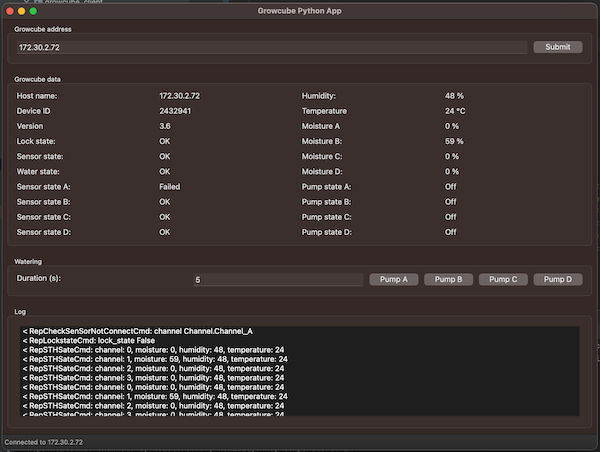
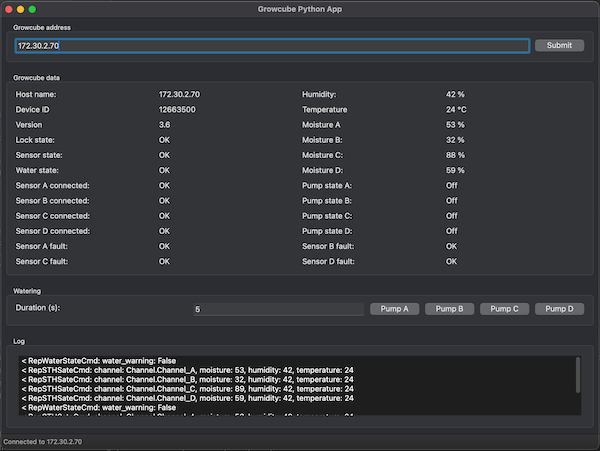
Fix bugs in WaterStateGrowcubeReport, CheckSensorLockGrowcubeReport and RepCurveEndFlagGrowcubeReport Add new sensors to app Version 1.0.15

Changed region(s): [[0.0, 0.0, 1.0, 1.0], [0.24, 0.1863, 0.33, 0.5898]]

diff --git a/src/growcube_app.py b/src/growcube_app.py
@@ -11,7 +11,7 @@ from growcube_client import GrowcubeClient, Channel, GrowcubeCommand, PumpOpenGr
     SyncWaterLevelCommand, SyncWaterTimeCommand, SetWorkModeCommand
 from growcube_client import (DeviceVersionGrowcubeReport, LockStateGrowcubeReport, CheckSensorGrowcubeReport,
                              MoistureHumidityStateGrowcubeReport, WaterStateGrowcubeReport,
-                             CheckSensorNotConnectedGrowcubeReport)
+                             CheckSensorNotConnectedGrowcubeReport, CheckSensorLockGrowcubeReport)
 
 DEBUG_LEVEL = logging.DEBUG
 
@@ -53,10 +53,14 @@ class SimpleGUI(wx.Frame):
         self.lock_state = False
         self.sensor_state = False
         self.water_state = False
-        self.sensor_fault_a = False
-        self.sensor_fault_b = False
-        self.sensor_fault_c = False
-        self.sensor_fault_d = False
+        self.sensor_connected_a = False
+        self.sensor_connected_b = False
+        self.sensor_connected_c = False
+        self.sensor_connected_d = False
+        self.check_sensor_a = False
+        self.check_sensor_b = False
+        self.check_sensor_c = False
+        self.check_sensor_d = False
         self.pump_state_a = False
         self.pump_state_b = False
         self.pump_state_c = False
@@ -172,55 +176,79 @@ class SimpleGUI(wx.Frame):
 
         # Data row 7
         row7_sizer = wx.BoxSizer(wx.HORIZONTAL)
-        label1 = wx.StaticText(panel, label=f"Sensor state A:")
-        self.sensor_fault_a_text = wx.StaticText(panel, label="OK")
+        label1 = wx.StaticText(panel, label=f"Sensor A connected:")
+        self.sensor_connected_a_text = wx.StaticText(panel, label="OK")
         label2 = wx.StaticText(panel, label="Pump state A:")
         self.pump_state_a_text = wx.StaticText(panel, label="Off")
         row7_sizer.Add(label1, 1, wx.EXPAND | wx.ALL, 5)
-        row7_sizer.Add(self.sensor_fault_a_text, 1, wx.EXPAND | wx.ALL, 5)
+        row7_sizer.Add(self.sensor_connected_a_text, 1, wx.EXPAND | wx.ALL, 5)
         row7_sizer.Add(label2, 1, wx.EXPAND | wx.ALL, 5)
         row7_sizer.Add(self.pump_state_a_text, 1, wx.EXPAND | wx.ALL, 5)
         group_box_sizer2.Add(row7_sizer, 0, wx.EXPAND | wx.ALL, 0)
 
         # Data row 8
         row8_sizer = wx.BoxSizer(wx.HORIZONTAL)
-        label1 = wx.StaticText(panel, label=f"Sensor state B:")
-        self.sensor_fault_b_text = wx.StaticText(panel, label="OK")
+        label1 = wx.StaticText(panel, label=f"Sensor B connected:")
+        self.sensor_connected_b_text = wx.StaticText(panel, label="OK")
         label2 = wx.StaticText(panel, label="Pump state B:")
         self.pump_state_b_text = wx.StaticText(panel, label="OK")  # You can set initial values here
         row8_sizer.Add(label1, 1, wx.EXPAND | wx.ALL, 5)
-        row8_sizer.Add(self.sensor_fault_b_text, 1, wx.EXPAND | wx.ALL, 5)
+        row8_sizer.Add(self.sensor_connected_b_text, 1, wx.EXPAND | wx.ALL, 5)
         row8_sizer.Add(label2, 1, wx.EXPAND | wx.ALL, 5)
         row8_sizer.Add(self.pump_state_b_text, 1, wx.EXPAND | wx.ALL, 5)
         group_box_sizer2.Add(row8_sizer, 0, wx.EXPAND | wx.ALL, 0)
 
         # Data row 9
         row9_sizer = wx.BoxSizer(wx.HORIZONTAL)
-        label1 = wx.StaticText(panel, label=f"Sensor state C:")
-        self.sensor_fault_c_text = wx.StaticText(panel, label="OK")
+        label1 = wx.StaticText(panel, label=f"Sensor C connected:")
+        self.sensor_connected_c_text = wx.StaticText(panel, label="OK")
         label2 = wx.StaticText(panel, label="Pump state C:")
         self.pump_state_c_text = wx.StaticText(panel, label="OK")  # You can set initial values here
         row9_sizer.Add(label1, 1, wx.EXPAND | wx.ALL, 5)
-        row9_sizer.Add(self.sensor_fault_c_text, 1, wx.EXPAND | wx.ALL, 5)
+        row9_sizer.Add(self.sensor_connected_c_text, 1, wx.EXPAND | wx.ALL, 5)
         row9_sizer.Add(label2, 1, wx.EXPAND | wx.ALL, 5)
         row9_sizer.Add(self.pump_state_c_text, 1, wx.EXPAND | wx.ALL, 5)
         group_box_sizer2.Add(row9_sizer, 0, wx.EXPAND | wx.ALL, 0)
 
         # Data row 10
         row10_sizer = wx.BoxSizer(wx.HORIZONTAL)
-        label1 = wx.StaticText(panel, label=f"Sensor state D:")
-        self.sensor_fault_d_text = wx.StaticText(panel, label="OK")
+        label1 = wx.StaticText(panel, label=f"Sensor D connected:")
+        self.sensor_connected_d_text = wx.StaticText(panel, label="OK")
         label2 = wx.StaticText(panel, label="Pump state D:")
         self.pump_state_d_text = wx.StaticText(panel, label="OK")  # You can set initial values here
         row10_sizer.Add(label1, 1, wx.EXPAND | wx.ALL, 5)
-        row10_sizer.Add(self.sensor_fault_d_text, 1, wx.EXPAND | wx.ALL, 5)
+        row10_sizer.Add(self.sensor_connected_d_text, 1, wx.EXPAND | wx.ALL, 5)
         row10_sizer.Add(label2, 1, wx.EXPAND | wx.ALL, 5)
         row10_sizer.Add(self.pump_state_d_text, 1, wx.EXPAND | wx.ALL, 5)
         group_box_sizer2.Add(row10_sizer, 0, wx.EXPAND | wx.ALL, 0)
 
+        # Data row 11
+        row11_sizer = wx.BoxSizer(wx.HORIZONTAL)
+        label1 = wx.StaticText(panel, label=f"Sensor A fault:")
+        self.check_sensor_a_text = wx.StaticText(panel, label="OK")
+        label2 = wx.StaticText(panel, label="Sensor B fault:")
+        self.check_sensor_b_text = wx.StaticText(panel, label="OK")  # You can set initial values here
+        row11_sizer.Add(label1, 1, wx.EXPAND | wx.ALL, 5)
+        row11_sizer.Add(self.check_sensor_a_text, 1, wx.EXPAND | wx.ALL, 5)
+        row11_sizer.Add(label2, 1, wx.EXPAND | wx.ALL, 5)
+        row11_sizer.Add(self.check_sensor_b_text, 1, wx.EXPAND | wx.ALL, 5)
+        group_box_sizer2.Add(row11_sizer, 0, wx.EXPAND | wx.ALL, 0)
+
+        # Data row 12
+        row12_sizer = wx.BoxSizer(wx.HORIZONTAL)
+        label1 = wx.StaticText(panel, label=f"Sensor C fault:")
+        self.check_sensor_c_text = wx.StaticText(panel, label="OK")
+        label2 = wx.StaticText(panel, label="Sensor D fault:")
+        self.check_sensor_d_text = wx.StaticText(panel, label="OK")  # You can set initial values here
+        row12_sizer.Add(label1, 1, wx.EXPAND | wx.ALL, 5)
+        row12_sizer.Add(self.check_sensor_c_text, 1, wx.EXPAND | wx.ALL, 5)
+        row12_sizer.Add(label2, 1, wx.EXPAND | wx.ALL, 5)
+        row12_sizer.Add(self.check_sensor_d_text, 1, wx.EXPAND | wx.ALL, 5)
+        group_box_sizer2.Add(row12_sizer, 0, wx.EXPAND | wx.ALL, 0)
+
         group_box3 = wx.StaticBox(panel, label="Watering")
         group_box_sizer3 = wx.StaticBoxSizer(group_box3, wx.VERTICAL)
-        row11_sizer = wx.BoxSizer(wx.HORIZONTAL)
+        row13_sizer = wx.BoxSizer(wx.HORIZONTAL)
         label1 = wx.StaticText(panel, label=f"Duration (s):")
         self.watering_duration_text = wx.TextCtrl(panel, value="5")
         button_a = wx.Button(panel, label="Pump A")
@@ -231,13 +259,13 @@ class SimpleGUI(wx.Frame):
         button_c.Bind(wx.EVT_BUTTON, self.water_channel_c)
         button_d = wx.Button(panel, label="Pump D")
         button_d.Bind(wx.EVT_BUTTON, self.water_channel_d)
-        row11_sizer.Add(label1, 1, wx.EXPAND | wx.ALL, 5)
-        row11_sizer.Add(self.watering_duration_text, 1, wx.EXPAND | wx.ALL, 5)
-        row11_sizer.Add(button_a, 0, wx.ALIGN_CENTER_VERTICAL | wx.ALL, 5)
-        row11_sizer.Add(button_b, 0, wx.ALIGN_CENTER_VERTICAL | wx.ALL, 5)
-        row11_sizer.Add(button_c, 0, wx.ALIGN_CENTER_VERTICAL | wx.ALL, 5)
-        row11_sizer.Add(button_d, 0, wx.ALIGN_CENTER_VERTICAL | wx.ALL, 5)
-        group_box_sizer3.Add(row11_sizer, 0, wx.EXPAND | wx.ALL, 0)
+        row13_sizer.Add(label1, 1, wx.EXPAND | wx.ALL, 5)
+        row13_sizer.Add(self.watering_duration_text, 1, wx.EXPAND | wx.ALL, 5)
+        row13_sizer.Add(button_a, 0, wx.ALIGN_CENTER_VERTICAL | wx.ALL, 5)
+        row13_sizer.Add(button_b, 0, wx.ALIGN_CENTER_VERTICAL | wx.ALL, 5)
+        row13_sizer.Add(button_c, 0, wx.ALIGN_CENTER_VERTICAL | wx.ALL, 5)
+        row13_sizer.Add(button_d, 0, wx.ALIGN_CENTER_VERTICAL | wx.ALL, 5)
+        group_box_sizer3.Add(row13_sizer, 0, wx.EXPAND | wx.ALL, 0)
 
         # Third group box
         group_box4 = wx.StaticBox(panel, label="Log")
@@ -343,13 +371,22 @@ class SimpleGUI(wx.Frame):
             self.sensor_state = data.fault_state
         elif isinstance(data, CheckSensorNotConnectedGrowcubeReport):
             if data.channel == Channel.Channel_A:
-                self.sensor_fault_a = True
+                self.sensor_connected_a = True
             elif data.channel == Channel.Channel_B:
-                self.sensor_fault_b = True
+                self.sensor_connected_b = True
             elif data.channel == Channel.Channel_C:
-                self.sensor_fault_c = True
+                self.sensor_connected_c = True
             elif data.channel == Channel.Channel_D:
-                self.sensor_fault_d = True
+                self.sensor_connected_d = True
+        elif isinstance(data, CheckSensorLockGrowcubeReport):
+            if data.channel == Channel.Channel_A:
+                self.check_sensor_a = data.lock_state
+            elif data.channel == Channel.Channel_B:
+                self.check_sensor_b = data.lock_state
+            elif data.channel == Channel.Channel_C:
+                self.check_sensor_c = data.lock_state
+            elif data.channel == Channel.Channel_D:
+                self.check_sensor_d = data.lock_state
         elif isinstance(data, WaterStateGrowcubeReport):
             self.water_state = data.water_warning
         elif isinstance(data, PumpOpenGrowcubeReport):
@@ -405,10 +442,14 @@ class SimpleGUI(wx.Frame):
         self.lock_state_text.SetLabel('OK' if not self.lock_state else 'Locked')
         self.sensor_state_text.SetLabel('OK' if not self.sensor_state else 'Check sensors')
         self.water_state_text.SetLabel('OK' if not self.water_state else 'Water warning')
-        self.sensor_fault_a_text.SetLabel('OK' if not self.sensor_fault_a else 'Failed')
-        self.sensor_fault_b_text.SetLabel('OK' if not self.sensor_fault_b else 'Failed')
-        self.sensor_fault_c_text.SetLabel('OK' if not self.sensor_fault_b else 'Failed')
-        self.sensor_fault_d_text.SetLabel('OK' if not self.sensor_fault_b else 'Failed')
+        self.sensor_connected_a_text.SetLabel('OK' if not self.sensor_connected_a else 'Failed')
+        self.sensor_connected_b_text.SetLabel('OK' if not self.sensor_connected_b else 'Failed')
+        self.sensor_connected_c_text.SetLabel('OK' if not self.sensor_connected_b else 'Failed')
+        self.sensor_connected_d_text.SetLabel('OK' if not self.sensor_connected_b else 'Failed')
+        self.check_sensor_a_text.SetLabel('OK' if not self.check_sensor_a else 'Check')
+        self.check_sensor_b_text.SetLabel('OK' if not self.check_sensor_b else 'Check')
+        self.check_sensor_c_text.SetLabel('OK' if not self.check_sensor_c else 'Check')
+        self.check_sensor_d_text.SetLabel('OK' if not self.check_sensor_d else 'Check')
         self.pump_state_a_text.SetLabel('On' if self.pump_state_a else 'Off')
         self.pump_state_b_text.SetLabel('On' if self.pump_state_b else 'Off')
         self.pump_state_c_text.SetLabel('On' if self.pump_state_c else 'Off')

diff --git a/src/growcube_client/growcubereport.py b/src/growcube_client/growcubereport.py
@@ -139,7 +139,7 @@ class WaterStateGrowcubeReport(GrowcubeReport):
         :type data: str
         """
         GrowcubeReport.__init__(self, 20)
-        self._water_warning = int(data) != 0
+        self._water_warning = int(data) != 1
 
     @property
     def water_warning(self) -> bool:
@@ -765,7 +765,7 @@ class LockStateGrowcubeReport(GrowcubeReport):
 class CheckSensorLockGrowcubeReport(GrowcubeReport):
     """
     Response 34 - ReqCheckSenSorLock
-    Something related to the lock state of the sensor, I have no idea how to trigger this.
+    Lock state of the sensor, triggered by a sensor fault.
 
     :ivar _channel: Channel number 0-3
     :type _channel: Channel
@@ -780,9 +780,8 @@ class CheckSensorLockGrowcubeReport(GrowcubeReport):
         :type data: str
         """
         GrowcubeReport.__init__(self, 34)
-        temp = data.split(self.CMD_INNER)
-        self._channel = Channel(int(temp[0]))
-        self._lock_state = temp[1] == '1'
+        self._channel = Channel(int(data))
+        self._lock_state = True
 
     @property
     def channel(self) -> Channel:
@@ -831,7 +830,7 @@ class RepCurveEndFlagGrowcubeReport(GrowcubeReport):
         """
         GrowcubeReport.__init__(self, 35)
         temp = data.split(self.CMD_INNER)
-        self._channel = int(temp[0])
+        self._channel = Channel(int(temp[0]))
         self.data = data
 
     @property

diff --git a/src/growcube_client/growcubeclient.py b/src/growcube_client/growcubeclient.py
@@ -141,7 +141,7 @@ class GrowcubeClient:
             self.transport, self.protocol = await asyncio.wait_for(connection_coroutine,
                                                                    timeout=self.connection_timeout)
             logging.debug("Connected to %s:%i", self.host, self.port)
-            await asyncio.create_task(self.send_keep_alive(interval=10))
+            # await asyncio.create_task(self.send_keep_alive(interval=10))
             return True, ""
         except ConnectionRefusedError:
             error_message = f"Connection to {self.host}:{self.port} refused"

diff --git a/src/tests/growcubereport_tests.py b/src/tests/growcubereport_tests.py
@@ -4,11 +4,11 @@ from growcube_client import *
 
 class GrowCubeReportTestCase(unittest.TestCase):
     def test_water_state_report_false(self):
-        report = WaterStateGrowcubeReport('0')
+        report = WaterStateGrowcubeReport('1')
         self.assertEqual(report.water_warning, False)
 
     def test_water_state_report_true(self):
-        report = WaterStateGrowcubeReport('1')
+        report = WaterStateGrowcubeReport('0')
         self.assertEqual(report.water_warning, True)
 
     def test_moisture_humidity_state_report(self):

diff --git a/setup.py b/setup.py
@@ -11,7 +11,7 @@ with open(path.join(HERE, 'DESCRIPTION.md'), encoding='utf-8') as f:
 
 setup(
     name='growcube-client',
-    version='1.0.14',
+    version='1.0.15',
     description='A client for Elecrow GrowCube plant watering devices',
     long_description=long_description,
     long_description_content_type="text/markdown",
